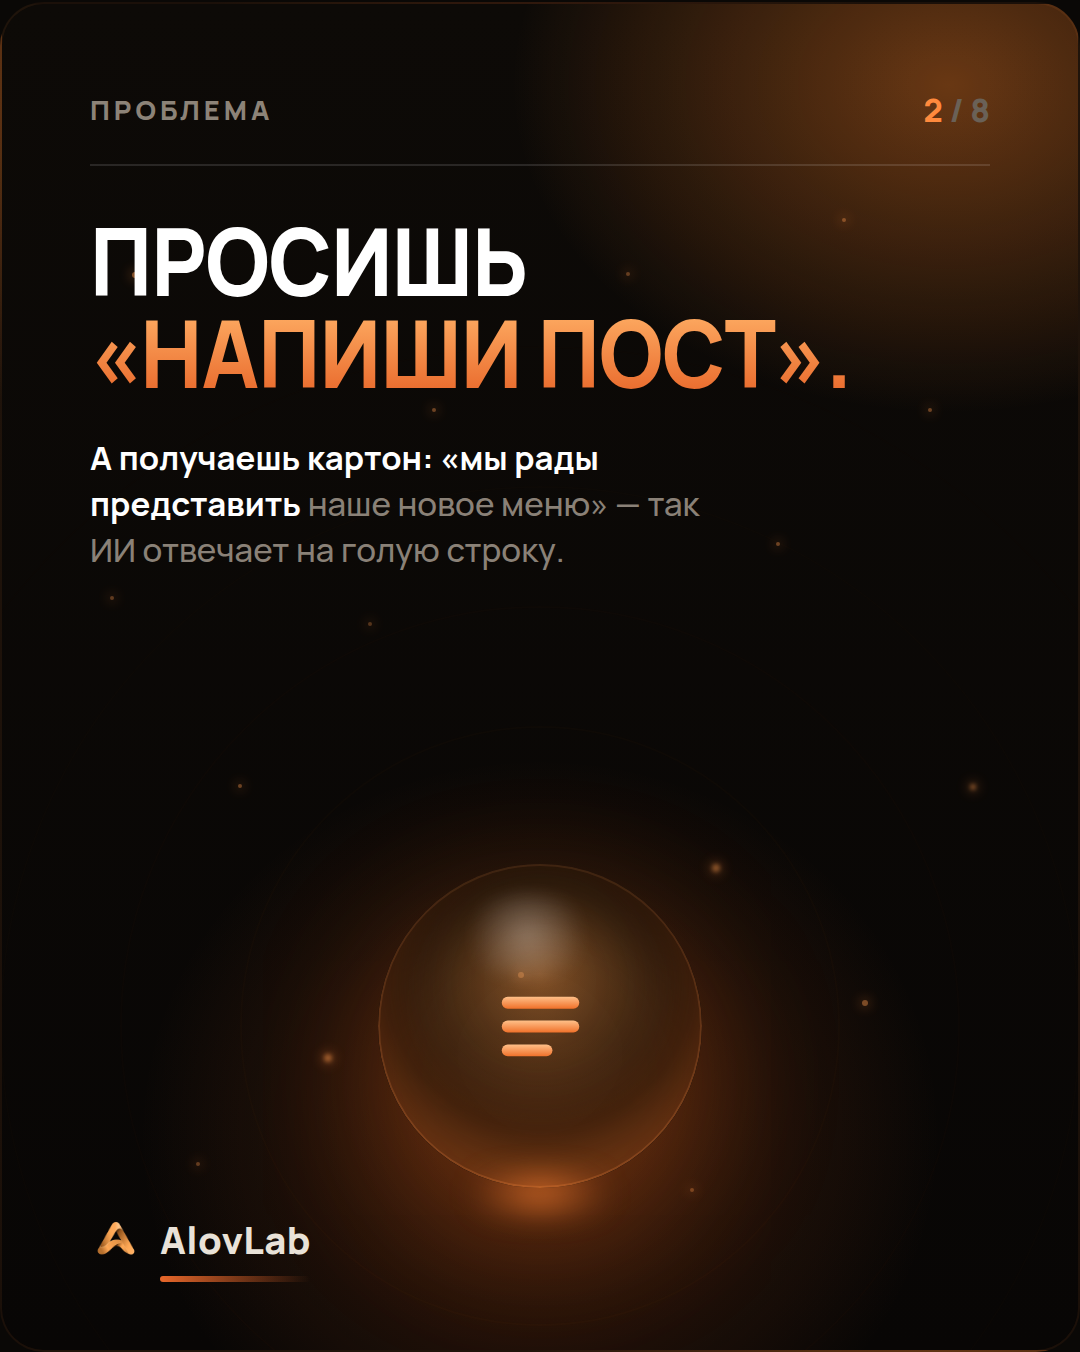
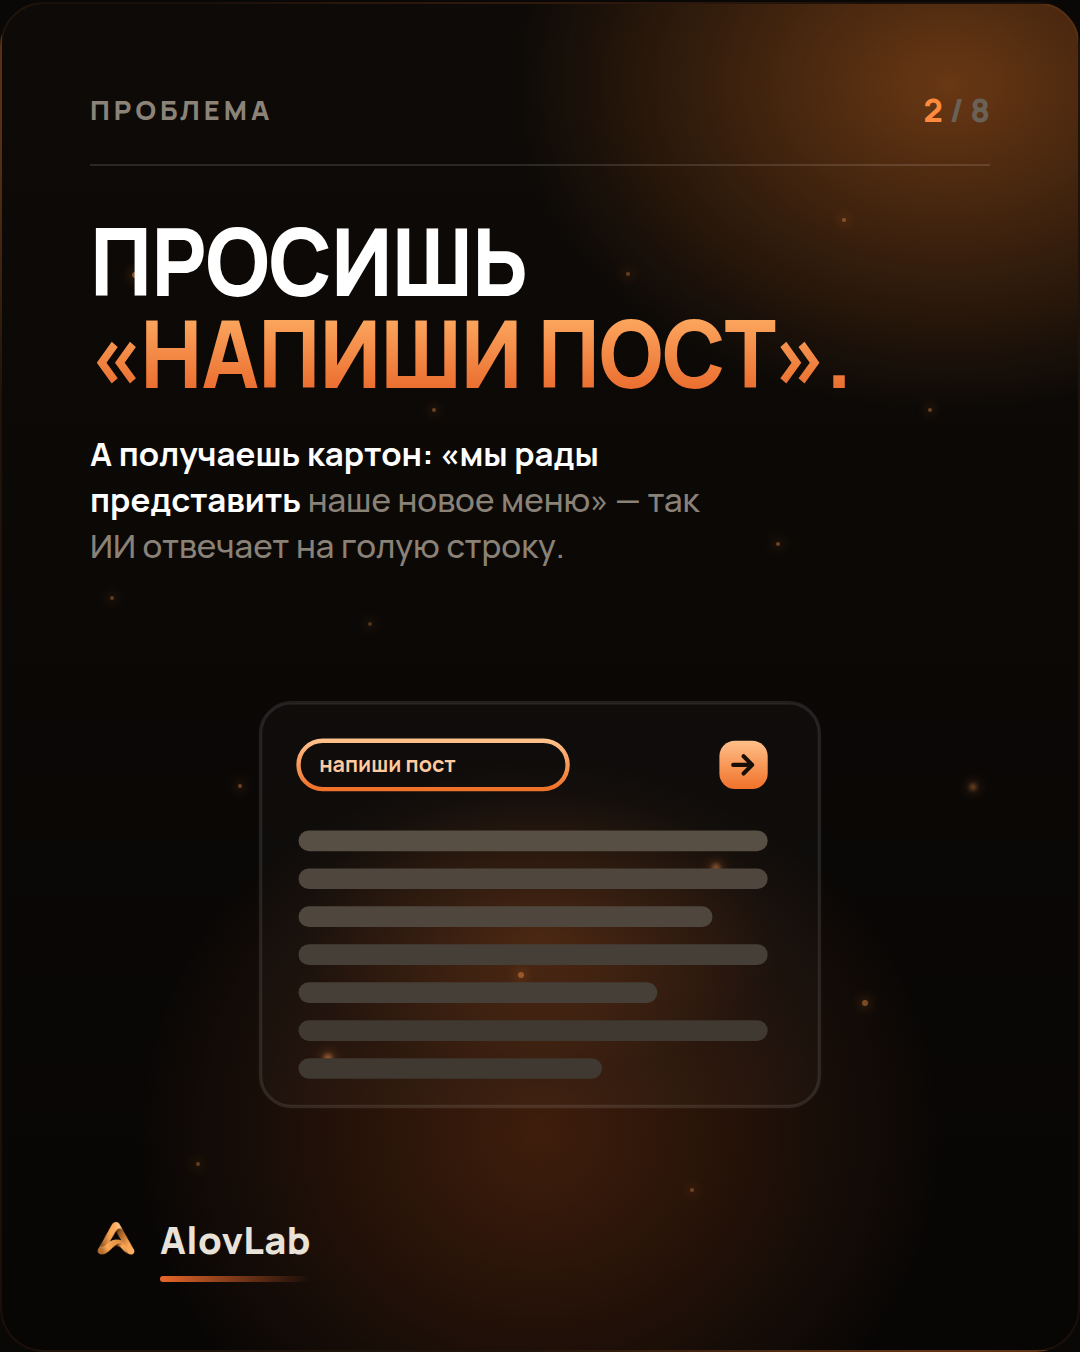
Карусель Дня 8 v2: bespoke-иллюстрации на слайдах (под виральность)
Убран повторяющийся орб — на концепт-слайдах свои SVG-сцены: сплит-экран
запрос→картон/живой, чат→стена штампов, голова с деталями→одно слово,
развилка модель(тупик)/бриф. Выше визуальная вариативность и удержание.

Claude-Session: https://claude.ai/code/session_019LoRMaWcrsShywAHDg8vmg

Changed region(s): [[0.275, 0.5281, 0.7333, 0.932], [0.0917, 0.3107, 0.55, 0.4349], [0.6111, 0.3417, 0.6417, 0.4038]]

diff --git a/scripts/carousel_showcase_day8.py b/scripts/carousel_showcase_day8.py
@@ -1,15 +1,24 @@
 # -*- coding: utf-8 -*-
-"""AlovLab · День 8 «Один запрос — два ответа» (бриф для ИИ) в SHOWCASE-стиле.
-Обложка → проблема → причина → ошибка → бриф (3 части) → было/стало → промпт → CTA. Нумерация N/8.
-RU кроме AlovLab. Запуск: python3 scripts/carousel_showcase_day8.py"""
+"""AlovLab · День 8 «Один запрос — два ответа» (бриф для ИИ) — SHOWCASE + СВОИ ИЛЛЮСТРАЦИИ.
+На слайдах-концептах — bespoke SVG-сцены под каждую мысль (сплит, стена штампов, голова→слово, развилка).
+Нумерация N/8. RU кроме AlovLab. Запуск: python3 scripts/carousel_showcase_day8.py"""
 import pathlib
-from carousel_showcase_render import (CSS as CSS0, DEFS, FOOT, sparks, rings, icon, ICONS, LOGO, ROOT)
+from carousel_showcase_render import (CSS as CSS0, DEFS, FOOT, sparks, rings, LOGO, ROOT)
 
 OUTDIR = ROOT / "exports" / "carousels" / "day-08-showcase"; OUTDIR.mkdir(parents=True, exist_ok=True)
 OUT = OUTDIR / "day-08-showcase.html"
 
 EXTRA = r"""
 .hsm .head h2{font-size:37px}
+.cover .head h2{font-size:50px}
+.cover .sub{margin-top:14px;max-width:26ch;font-size:17px}
+/* область иллюстрации */
+.viz{flex:1;position:relative;z-index:2;display:grid;place-items:center;min-height:0;margin-top:14px}
+.viz svg{width:min(92%,480px);height:100%;max-height:360px}
+.viz::before{content:"";position:absolute;left:50%;top:55%;width:74%;height:64%;transform:translate(-50%,-50%);
+ background:radial-gradient(closest-side,rgba(255,120,40,.16),transparent 72%);z-index:-1;pointer-events:none}
+.body.tight{margin-top:16px}
+/* пу + промпт-плашка */
 .pu{position:relative;z-index:4;margin-top:14px;display:inline-block;font-weight:800;font-size:11px;text-transform:uppercase;
  letter-spacing:.03em;color:var(--o2);background:rgba(232,103,42,.13);border:1px solid rgba(232,103,42,.3);border-radius:20px;padding:8px 14px}
 .pbox{position:relative;z-index:4;margin-top:15px;background:#120c06;border:1px solid rgba(255,150,80,.28);
@@ -20,23 +29,20 @@ EXTRA = r"""
  color:#ffd9b8;white-space:pre-wrap;word-break:break-word}
 .pbox .ru{margin-top:11px;padding-top:10px;border-top:1px solid rgba(255,255,255,.1);font-size:11.5px;line-height:1.4;color:#b9ad9b}
 .pbox .ru b{color:#fff}
-/* список из 3 частей брифа */
+/* список брифа */
 .mlist{position:relative;z-index:4;margin-top:18px;display:flex;flex-direction:column;gap:11px}
 .mrow{display:flex;align-items:center;gap:14px;background:linear-gradient(180deg,rgba(255,255,255,.045),rgba(255,255,255,.02));
  border:1px solid rgba(255,140,60,.14);border-radius:14px;padding:14px 16px}
 .mrow .n{flex:0 0 auto;width:30px;height:30px;border-radius:9px;display:flex;align-items:center;justify-content:center;
  font-weight:800;font-size:14px;color:#160e07;background:linear-gradient(150deg,var(--o2),var(--o))}
-.mrow .t{display:flex;flex-direction:column;gap:2px;min-width:0}
-.mrow .t b{font-weight:700;font-size:17px;color:#fff;line-height:1.15}
+.mrow .t b{font-weight:700;font-size:17px;color:#fff;line-height:1.15;display:block}
 .mrow .t span{font-weight:500;font-size:13px;color:#8a8177;line-height:1.25}
 /* до/после сплит */
 .split{position:relative;z-index:4;margin-top:16px;display:flex;flex-direction:column;gap:12px}
-.sfact{font-weight:600;font-size:14px;color:#b9ad9b;line-height:1.35}
-.sfact b{color:#fff}
-.scard{border-radius:14px;padding:14px 16px;position:relative}
+.sfact{font-weight:600;font-size:14px;color:#b9ad9b;line-height:1.35}.sfact b{color:#fff}
+.scard{border-radius:14px;padding:14px 16px}
 .scard .lab{display:inline-block;font-weight:800;font-size:9px;letter-spacing:.09em;text-transform:uppercase;padding:4px 9px;border-radius:6px;margin-bottom:8px}
-.scard .q{font-weight:700;font-size:15.5px;line-height:1.3}
-.scard .r{margin-top:6px;font-weight:500;font-size:12px;line-height:1.3}
+.scard .q{font-weight:700;font-size:15.5px;line-height:1.3}.scard .r{margin-top:6px;font-weight:500;font-size:12px;line-height:1.3}
 .scard.cold{background:rgba(255,255,255,.04);border:1px solid rgba(255,255,255,.1)}
 .scard.cold .lab{background:rgba(255,255,255,.1);color:#9a9084}.scard.cold .q{color:#8f867b}.scard.cold .r{color:#6f675d}
 .scard.hot{background:#130c06;border:1px solid rgba(255,150,80,.32);border-left:3px solid var(--o)}
@@ -44,30 +50,92 @@ EXTRA = r"""
 """
 CSS = CSS0 + EXTRA
 
-ICONS.update({
- "split": '<rect x="20" y="24" width="60" height="52" rx="9" fill="none" stroke="url(#ig)" stroke-width="6"/><path d="M50 24v52" stroke="url(#ig)" stroke-width="6"/>',
- "stamp": '<rect x="24" y="30" width="52" height="8" rx="4"/><rect x="24" y="46" width="52" height="8" rx="4"/><rect x="24" y="62" width="34" height="8" rx="4"/>',
- "mind":  '<path d="M30 82V56a20 20 0 0 1 40 0v26" fill="none" stroke="url(#ig)" stroke-width="6" stroke-linecap="round"/><circle cx="44" cy="52" r="3.4"/><circle cx="58" cy="52" r="3.4"/><path d="M45 65h12" stroke="url(#ig)" stroke-width="5" stroke-linecap="round"/>',
- "fork":  '<circle cx="50" cy="74" r="6"/><path d="M50 68V54" stroke="url(#ig)" stroke-width="6" stroke-linecap="round"/><path d="M50 54 28 32M50 54 72 32" fill="none" stroke="url(#ig)" stroke-width="6" stroke-linecap="round"/>',
-})
+# ---------------- BESPOKE-СЦЕНЫ ----------------
+SC_COVER = '''<svg viewBox="0 0 480 250" fill="none" font-family="Manrope">
+ <rect x="196" y="4" width="88" height="24" rx="12" stroke="url(#ig)" stroke-width="3"/>
+ <text x="240" y="21" fill="#ffcaa0" font-size="12" font-weight="800" text-anchor="middle">запрос</text>
+ <path d="M240 28 V48 M130 48 H350 M130 48 V66 M350 48 V66" stroke="#6a6157" stroke-width="2.5"/>
+ <rect x="40" y="72" width="176" height="166" rx="16" fill="#ffffff08" stroke="#ffffff1f" stroke-width="2"/>
+ <rect x="62" y="98" width="132" height="11" rx="5.5" fill="#574e44"/>
+ <rect x="62" y="122" width="132" height="11" rx="5.5" fill="#4d463d"/>
+ <rect x="62" y="146" width="100" height="11" rx="5.5" fill="#4d463d"/>
+ <rect x="62" y="170" width="132" height="11" rx="5.5" fill="#443e36"/>
+ <rect x="62" y="194" width="84" height="11" rx="5.5" fill="#443e36"/>
+ <text x="128" y="228" fill="#8a8177" font-size="12.5" font-weight="800" text-anchor="middle" letter-spacing="1.5">КАРТОН</text>
+ <rect x="264" y="72" width="176" height="166" rx="16" fill="#1a1108" stroke="url(#ig)" stroke-width="2.5"/>
+ <rect x="286" y="98" width="132" height="12" rx="6" fill="url(#ig)"/>
+ <rect x="286" y="123" width="90" height="12" rx="6" fill="url(#ig)" opacity="0.85"/>
+ <rect x="286" y="148" width="120" height="12" rx="6" fill="url(#ig)" opacity="0.7"/>
+ <rect x="286" y="173" width="72" height="12" rx="6" fill="url(#ig)" opacity="0.55"/>
+ <path d="M410 190 l4.5 11 11 4.5 -11 4.5 -4.5 11 -4.5 -11 -11 -4.5 11 -4.5 z" fill="url(#ig)"/>
+ <text x="352" y="228" fill="#ff9a4d" font-size="12.5" font-weight="800" text-anchor="middle" letter-spacing="1.5">ЖИВОЙ</text>
+</svg>'''
 
-def cover(hw, ho, sub, ic):
+SC_PROBLEM = '''<svg viewBox="0 0 480 250" fill="none" font-family="Manrope">
+ <rect x="78" y="8" width="324" height="234" rx="18" fill="#ffffff06" stroke="#ffffff1a" stroke-width="2"/>
+ <rect x="100" y="30" width="156" height="28" rx="14" stroke="url(#ig)" stroke-width="2.5"/>
+ <text x="112" y="48" fill="#ffcaa0" font-size="12.5" font-weight="700">напиши пост</text>
+ <rect x="344" y="30" width="28" height="28" rx="9" fill="url(#ig)"/>
+ <path d="M352 44 h11 M358 39 l5 5 -5 5" stroke="#160e07" stroke-width="2.4" stroke-linecap="round" stroke-linejoin="round"/>
+ <rect x="100" y="82" width="272" height="12" rx="6" fill="#574e44"/>
+ <rect x="100" y="104" width="272" height="12" rx="6" fill="#4f473e"/>
+ <rect x="100" y="126" width="240" height="12" rx="6" fill="#4f473e"/>
+ <rect x="100" y="148" width="272" height="12" rx="6" fill="#463f37"/>
+ <rect x="100" y="170" width="208" height="12" rx="6" fill="#463f37"/>
+ <rect x="100" y="192" width="272" height="12" rx="6" fill="#3f3931"/>
+ <rect x="100" y="214" width="176" height="12" rx="6" fill="#3f3931"/>
+</svg>'''
+
+SC_CAUSE = '''<svg viewBox="0 0 480 250" fill="none" font-family="Manrope">
+ <path d="M64 244 v-70 a66 66 0 0 1 132 0 v70 z" fill="#1a1108" stroke="url(#ig)" stroke-width="3"/>
+ <g font-size="11.5" font-weight="700" text-anchor="middle">
+  <rect x="78" y="140" width="54" height="22" rx="11" fill="#e8672a2e" stroke="url(#ig)" stroke-width="1.4"/><text x="105" y="155" fill="#ffcaa0">ниша</text>
+  <rect x="138" y="140" width="58" height="22" rx="11" fill="#e8672a2e" stroke="url(#ig)" stroke-width="1.4"/><text x="167" y="155" fill="#ffcaa0">гость</text>
+  <rect x="78" y="168" width="46" height="22" rx="11" fill="#e8672a2e" stroke="url(#ig)" stroke-width="1.4"/><text x="101" y="183" fill="#ffcaa0">тон</text>
+  <rect x="130" y="168" width="66" height="22" rx="11" fill="#e8672a2e" stroke="url(#ig)" stroke-width="1.4"/><text x="163" y="183" fill="#ffcaa0">продукт</text>
+ </g>
+ <path d="M210 150 h58 M256 141 l12 9 -12 9" stroke="#8a8177" stroke-width="3" stroke-linecap="round" stroke-linejoin="round"/>
+ <rect x="292" y="92" width="150" height="116" rx="15" fill="#ffffff06" stroke="#ffffff1a" stroke-width="2"/>
+ <rect x="316" y="140" width="48" height="12" rx="6" fill="#574e44"/>
+ <text x="367" y="150" fill="#6a6157" font-size="11" font-weight="700">одно слово</text>
+</svg>'''
+
+SC_MISTAKE = '''<svg viewBox="0 0 480 250" fill="none" font-family="Manrope">
+ <circle cx="240" cy="34" r="7" fill="url(#ig)"/>
+ <path d="M240 41 C240 78 150 82 132 110" stroke="#6a6157" stroke-width="3"/>
+ <path d="M240 41 C240 78 330 82 348 110" stroke="url(#ig)" stroke-width="3.5"/>
+ <g stroke="#6a6157" stroke-width="3" fill="none" stroke-linecap="round" stroke-linejoin="round">
+  <path d="M150 168 a34 34 0 1 0 -18 -30"/>
+  <path d="M128 128 l6 16 -16 4"/>
+ </g>
+ <text x="116" y="222" fill="#8a8177" font-size="12.5" font-weight="800" text-anchor="middle">сменить модель</text>
+ <text x="116" y="240" fill="#6a6157" font-size="11" text-anchor="middle">— тупик</text>
+ <rect x="306" y="122" width="80" height="90" rx="12" fill="#1a1108" stroke="url(#ig)" stroke-width="2.5"/>
+ <rect x="324" y="142" width="46" height="8" rx="4" fill="url(#ig)"/>
+ <rect x="324" y="158" width="46" height="8" rx="4" fill="url(#ig)" opacity="0.8"/>
+ <rect x="324" y="174" width="30" height="8" rx="4" fill="url(#ig)" opacity="0.6"/>
+ <text x="346" y="234" fill="#ff9a4d" font-size="12.5" font-weight="800" text-anchor="middle">бриф</text>
+</svg>'''
+
+def viz(scene): return f'<div class="viz">{scene}</div>'
+
+def cover(hw, ho, sub, scene):
     return f"""<article class="slide cover">{DEFS}
   <div class="sparks">{sparks()}</div>
-  <div class="stage"><div class="rings">{rings()}</div><div class="orbw"><div class="orb big">{icon(ic)}</div></div></div>
   <div class="top"><span class="eb">AlovLab · как ставить задачу ИИ</span><span class="pg">1<b> / 8</b></span></div>
   <div class="head"><h2><span class="w">{hw}</span><span class="o">{ho}</span></h2></div>
   <div class="sub">{sub}</div>
+  {viz(scene)}
   {FOOT}
 </article>"""
 
-def blk(eb, hw, ho, bl, bm, ic, pg):
+def sc(eb, hw, ho, bl, bm, scene, pg):
     return f"""<article class="slide">{DEFS}
   <div class="sparks">{sparks()}</div>
-  <div class="stage"><div class="rings">{rings()}</div><div class="orbw"><div class="orb">{icon(ic)}</div></div></div>
   <div class="top"><span class="eb">{eb}</span><span class="pg">{pg}<b> / 8</b></span></div>
   <div class="head"><h2><span class="w">{hw}</span><span class="o">{ho}</span></h2></div>
-  <div class="body"><span class="l">{bl}</span> <span class="m">{bm}</span></div>
+  <div class="body tight"><span class="l">{bl}</span> <span class="m">{bm}</span></div>
+  {viz(scene)}
   {FOOT}
 </article>"""
 
@@ -77,8 +145,7 @@ BRIEF = [
  ("3","Критерий","что считать хорошим и что запрещено"),
 ]
 def brief_slide():
-    rows="".join(f'<div class="mrow"><div class="n">{n}</div><div class="t"><b>{t}</b><span>{s}</span></div></div>'
-                 for n,t,s in BRIEF)
+    rows="".join(f'<div class="mrow"><div class="n">{n}</div><div class="t"><b>{t}</b><span>{s}</span></div></div>' for n,t,s in BRIEF)
     return f"""<article class="slide mch">{DEFS}
   <div class="sparks">{sparks()}</div>
   <div class="top"><span class="eb">Решение</span><span class="pg">5<b> / 8</b></span></div>
@@ -128,10 +195,10 @@ def cta(hw, ho, items, btn):
 </article>"""
 
 SLIDES = [
- cover("Один запрос —", "два ответа.", "Слева картон, справа живой текст. Модель одна и та же. Разницу делает бриф.", "split"),
- blk("Проблема","Просишь","«напиши пост».","А получаешь картон: «мы рады представить","наше новое меню» — так ИИ отвечает на голую строку.","stamp", 2),
- blk("Причина","ИИ не читает","мысли.","Нишу, гостя, тон, продукт ты держишь в голове.","ИИ их не видит — и затыкает пустоту средним.","mind", 3),
- blk("Ошибка","Ты меняешь","модель.","А менять надо бриф. Слабый ответ —","это слабо поставленная задача, а не слабый ИИ.","fork", 4),
+ cover("Один запрос —", "два ответа.", "Слева картон, справа живой текст. Модель — одна и та же.", SC_COVER),
+ sc("Проблема","Просишь","«напиши пост».","А получаешь картон: «мы рады представить","наше новое меню» — так ИИ отвечает на голую строку.", SC_PROBLEM, 2),
+ sc("Причина","ИИ не читает","мысли.","Нишу, гостя, тон, продукт ты держишь в голове.","ИИ их не видит — и затыкает пустоту средним.", SC_CAUSE, 3),
+ sc("Ошибка","Ты меняешь","модель.","А менять надо бриф. Слабый ответ —","это слабо поставленная задача, а не слабый ИИ.", SC_MISTAKE, 4),
  brief_slide(),
  demo_slide(),
  prompt_slide(),
@@ -145,8 +212,8 @@ SLIDES = [
 HTML = f"""<title>Один запрос — два ответа · showcase · AlovLab</title><meta name="viewport" content="width=device-width, initial-scale=1">
 <style>{CSS}</style>
 <div class="page">
-  <div class="lead"><span class="eb">AlovLab · День 8 · 11 августа · showcase-стиль</span>
-    <h1>Одним постом: обложка → проблема → бриф (3 части) → было/после → промпт → CTA. Instagram и Telegram, 4:5.</h1></div>
+  <div class="lead"><span class="eb">AlovLab · День 8 · 11 августа · showcase + иллюстрации</span>
+    <h1>Одним постом: обложка → проблема → бриф → было/после → промпт → CTA. Instagram и Telegram, 4:5.</h1></div>
   <div class="grid">
 {''.join(SLIDES)}
   </div>
